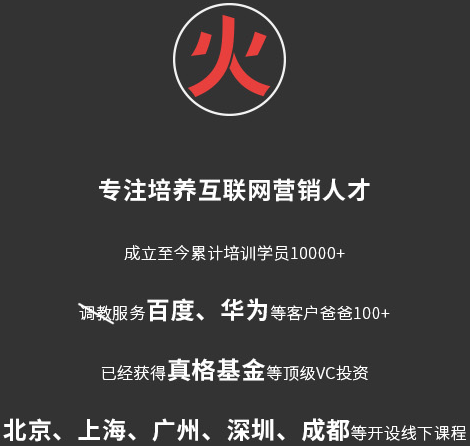
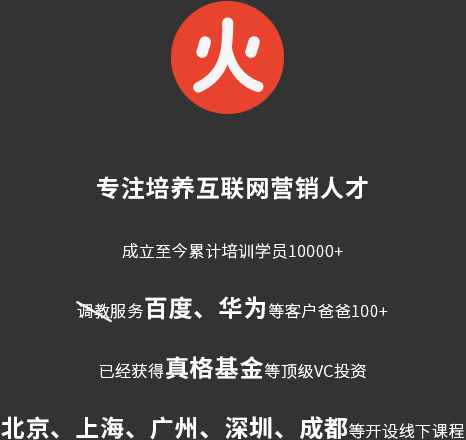
1

diff --git a/frontendIII/public/course-4.html b/frontendIII/public/course-4.html
@@ -14,7 +14,7 @@
     <div class="header">
         <div class="header-main">
             <div class="slogan">
-                <img src="./svg/logo-2.svg" alt="感觉要火" class="logo">
+                <img src="./svg/logo-5.svg" alt="感觉要火" class="logo">
             </div>
             <a href="javascript:void(0);" class="btn btn-show-navs">点我</a>
         </div>
@@ -234,23 +234,23 @@
         <div class="module-wrapper">
             <div class="title">友情链接</div>
             <p>
-                <a href="#">好色派沙拉</a>
-                <a href="#">heyjuice</a>
-                <a href="#">掌生鼓粒</a>
-                <a href="#">roseonly</a>
-                <a href="#">一朵棉花</a>
-                <a href="#">安德玛</a>
-                <a href="#">YSL</a>
-                <a href="#">三个爸爸</a>
-                <a href="#">Karma</a>
-                <a href="#">Blue</a>
-                <a href="#">Bottle</a>
-                <a href="#">三只松鼠</a>
+                <a target="_blank" href="http://www.haosesalad.com/">好色派沙拉</a>
+                <a target="_blank" href="http://www.heyjuice.cn/Index">heyjuice</a>
+                <a target="_blank" href="http://www.greeninhand.com/">掌生鼓粒</a>
+                <a target="_blank" href="http://www.roseonly.com.cn/">roseonly</a>
+                <a target="_blank" href="#">一朵棉花</a>
+                <a target="_blank" href="https://www.underarmour.cn/">安德玛</a>
+                <a target="_blank" href="http://www.yslbeautycn.com">YSL</a>
+                <a target="_blank" href="http://www.sangebaba.com/">三个爸爸</a>
+                <a target="_blank" href="http://www.karmais.me/index.html">Karma</a>
+                <a target="_blank" href="https://bluebottlecoffee.com/">Blue Bottle</a>
+                <a target="_blank" href="http://www.3songshu.com/">三只松鼠</a>
+                <a target="_blank" href="http://www.zcmind.com/">招财猫</a>
             </p>
             <p>
                 <a href="#">你说的都对</a>
-                <a href="#">顶尖文案</a>
-                <a href="#">数英网</a>
+                <a href="http://www.topys.cn/">顶尖文案</a>
+                <a href="http://www.digitaling.com/">数英网</a>
             </p>
             <div class="copyright">
                 <a href="http://www.miibeian.gov.cn" target="_blank">
@@ -260,6 +260,11 @@
         </div>
     </div>
     <script src="./js/lib/zepto/zepto.min.js"></script>
+    <script src="./js/lib/underscore/underscore-min.js"></script>
     <script src="./js/header.js"></script>
+    <script>
+        var courseId = 1;
+    </script>
+    <script src="./js/course.js"></script>
 </body>
 </html>

diff --git a/frontendIII/public/home.html b/frontendIII/public/home.html
@@ -15,7 +15,7 @@
     <div class="header">
         <div class="header-main">
             <div class="slogan">
-                <img src="./svg/logo-2.svg" alt="感觉要火" class="logo">
+                <img src="./svg/logo-5.svg" alt="感觉要火" class="logo">
             </div>
             <a href="javascript:void(0);" class="btn btn-show-navs">点我</a>
         </div>
@@ -31,8 +31,8 @@
     </div>
     <div class="module-video">
         <div class="video-container">
-            <video src="./img/home/video.mp4" autoplay="true" loop="true"></video>
-            <img class="video-preview" src="./img/home/top.jpg" alt="">
+            <img class="cover" src="./img/home/cover.jpg" alt="">
+            <img class="video-preview" src="./img/home/cover-mobile.jpg" alt="">
             <div class="wrap-register">
                 虽然<br>
                 你立即报名会让我很开心<br>
@@ -44,7 +44,6 @@
         </div>
     </div>
     <div class="module-declaration img-center-container">
-        <img src="./img/home/slogan-304-60.png" alt="这一刻，感觉要火。">
     </div>
     <div class="module-courses">
         <div class="module-wrapper">
@@ -94,6 +93,20 @@
                         </div>
                     </div>
                     <a href="/course-3.html" class="course-entrance">查看详情</a>
+                </div>
+                <div class="course even">
+                    <img src="./img/home/course-cover-4.jpg" alt="" class="course-cover">
+                    <div class="course-info">
+                        <div class="course-title">
+                            <img src="./img/home/course-name-4.png" alt="">
+                        </div>
+                        <div class="course-detail">
+                            【感觉要火】品牌营销大课<br>
+                            小马宋X李倩两位大咖，以两整天系统大课方式<br>
+                            全面升级你的营销思维
+                        </div>
+                    </div>
+                    <a href="/course-4.html" class="course-entrance">查看详情</a>
                 </div>
             </div>
         </div>
@@ -154,6 +167,7 @@
                 <a target="_blank" href="http://www.karmais.me/index.html">Karma</a>
                 <a target="_blank" href="https://bluebottlecoffee.com/">Blue Bottle</a>
                 <a target="_blank" href="http://www.3songshu.com/">三只松鼠</a>
+                <a target="_blank" href="http://www.zcmind.com/">招财猫</a>
             </p>
             <p>
                 <a href="#">你说的都对</a>

diff --git a/frontendIII/public/marry.html b/frontendIII/public/marry.html
@@ -15,7 +15,7 @@
     <div class="header">
         <div class="header-main">
             <div class="slogan">
-                <img src="./svg/logo-2.svg" alt="感觉要火" class="logo">
+                <img src="./svg/logo-5.svg" alt="感觉要火" class="logo">
             </div>
             <a href="javascript:void(0);" class="btn btn-show-navs">点我</a>
         </div>
@@ -150,23 +150,23 @@
         <div class="module-wrapper">
             <div class="title">友情链接</div>
             <p>
-                <a href="#">好色派沙拉</a>
-                <a href="#">heyjuice</a>
-                <a href="#">掌生鼓粒</a>
-                <a href="#">roseonly</a>
-                <a href="#">一朵棉花</a>
-                <a href="#">安德玛</a>
-                <a href="#">YSL</a>
-                <a href="#">三个爸爸</a>
-                <a href="#">Karma</a>
-                <a href="#">Blue</a>
-                <a href="#">Bottle</a>
-                <a href="#">三只松鼠</a>
+                <a target="_blank" href="http://www.haosesalad.com/">好色派沙拉</a>
+                <a target="_blank" href="http://www.heyjuice.cn/Index">heyjuice</a>
+                <a target="_blank" href="http://www.greeninhand.com/">掌生鼓粒</a>
+                <a target="_blank" href="http://www.roseonly.com.cn/">roseonly</a>
+                <a target="_blank" href="#">一朵棉花</a>
+                <a target="_blank" href="https://www.underarmour.cn/">安德玛</a>
+                <a target="_blank" href="http://www.yslbeautycn.com">YSL</a>
+                <a target="_blank" href="http://www.sangebaba.com/">三个爸爸</a>
+                <a target="_blank" href="http://www.karmais.me/index.html">Karma</a>
+                <a target="_blank" href="https://bluebottlecoffee.com/">Blue Bottle</a>
+                <a target="_blank" href="http://www.3songshu.com/">三只松鼠</a>
+                <a target="_blank" href="http://www.zcmind.com/">招财猫</a>
             </p>
             <p>
                 <a href="#">你说的都对</a>
-                <a href="#">顶尖文案</a>
-                <a href="#">数英网</a>
+                <a href="http://www.topys.cn/">顶尖文案</a>
+                <a href="http://www.digitaling.com/">数英网</a>
             </p>
             <div class="copyright">
                 <a href="http://www.miibeian.gov.cn" target="_blank">

diff --git a/frontendIII/public/css/home.css b/frontendIII/public/css/home.css
@@ -3,10 +3,12 @@
     height: 9rem;
 }
 
-.module-video video {
+.module-video video,
+.module-video .cover {
     width: 100%;
     height: 100%;
-    object-fit: fill;
+    /*object-fit: fill;*/
+    object-fit: cover;
 }
 
 .module-video .video-preview {
@@ -39,10 +41,11 @@
 }
 
 .module-declaration {
-    height: 1.84rem;
+    height: 4rem;
     line-height: 1.84rem;
     background-color: #fff;
     text-align: center;
+    background: url(../img/home/slogan-430-212.png) no-repeat center center #fff;
 }
 
 .module-declaration img {
@@ -111,7 +114,7 @@
     width: 2.12rem;
     height: 0.62rem;
     line-height: 0.62rem;
-    background-color: #36a59c;
+    background-color: #dc432f;
     color: #fff;
     font-size: 0.24rem;
     text-align: center;
@@ -120,7 +123,7 @@
 }
 
 .module-courses .course:nth-child(3) .course-entrance {
-    background-color: #d34458;
+    background-color: #dc432f;
 }
 
 .module-courses .course.even .course-cover {
@@ -162,7 +165,7 @@
 .module-clients {
     height: 7.3rem;
     background-color: #ffffff;
-    border-bottom: 0.65rem solid #36a59c;
+    border-bottom: 0.65rem solid  #dc432f;
 }
 
 .module-clients img {
@@ -181,7 +184,8 @@
         width: 100%;
     }
 
-    .module-video video {
+    .module-video video,
+    .module-video .cover {
         display: none;
     }
 
@@ -203,8 +207,10 @@
     }
 
     .module-declaration {
-        height: 2.35rem;
+        height: 1.9rem;
         line-height: 2.35rem;
+        background-image: url(../img/home/slogan-389-64.png);
+        background-size: 3.89rem 0.64rem;
     }
 
     .module-declaration img {

diff --git a/frontendIII/public/course-3.html b/frontendIII/public/course-3.html
@@ -95,7 +95,7 @@
     <div class="header">
         <div class="header-main">
             <div class="slogan">
-                <img src="./svg/logo-2.svg" alt="感觉要火" class="logo">
+                <img src="./svg/logo-5.svg" alt="感觉要火" class="logo">
             </div>
             <a href="javascript:void(0);" class="btn btn-show-navs">点我</a>
         </div>
@@ -192,7 +192,7 @@
                             电话：17097214991<br>
                         </div>
                         <div class="QR-code">
-                            <img src="./img/QR-code.jpg" alt="二维码">
+                            <img src="./img/QR-code.png" alt="二维码">
                         </div>
                     </div>
                 </div>
@@ -323,6 +323,7 @@
                 <a target="_blank" href="http://www.karmais.me/index.html">Karma</a>
                 <a target="_blank" href="https://bluebottlecoffee.com/">Blue Bottle</a>
                 <a target="_blank" href="http://www.3songshu.com/">三只松鼠</a>
+                <a target="_blank" href="http://www.zcmind.com/">招财猫</a>
             </p>
             <p>
                 <a href="#">你说的都对</a>
@@ -339,6 +340,9 @@
     <script src="./js/lib/zepto/zepto.min.js"></script>
     <script src="./js/lib/underscore/underscore-min.js"></script>
     <script src="./js/header.js"></script>
+    <script>
+        var courseId = 3;
+    </script>
     <script src="./js/course.js"></script>
 </body>
 </html>

diff --git a/frontendIII/public/course-2.html b/frontendIII/public/course-2.html
@@ -57,7 +57,7 @@
     <div class="header">
         <div class="header-main">
             <div class="slogan">
-                <img src="./svg/logo-2.svg" alt="感觉要火" class="logo">
+                <img src="./svg/logo-5.svg" alt="感觉要火" class="logo">
             </div>
             <a href="javascript:void(0);" class="btn btn-show-navs">点我</a>
         </div>
@@ -153,7 +153,7 @@
                             电话：17097214991<br>
                         </div>
                         <div class="QR-code">
-                            <img src="./img/course-2/QR-code.jpg" alt="二维码">
+                            <img src="./img/course-2/QR-code.png" alt="二维码">
                         </div>
                     </div>
                 </div>
@@ -284,6 +284,7 @@
                 <a target="_blank" href="http://www.karmais.me/index.html">Karma</a>
                 <a target="_blank" href="https://bluebottlecoffee.com/">Blue Bottle</a>
                 <a target="_blank" href="http://www.3songshu.com/">三只松鼠</a>
+                <a target="_blank" href="http://www.zcmind.com/">招财猫</a>
             </p>
             <p>
                 <a href="#">你说的都对</a>

diff --git a/frontendIII/public/course-1.html b/frontendIII/public/course-1.html
@@ -14,7 +14,7 @@
     <div class="header">
         <div class="header-main">
             <div class="slogan">
-                <img src="./svg/logo-2.svg" alt="感觉要火" class="logo">
+                <img src="./svg/logo-5.svg" alt="感觉要火" class="logo">
             </div>
             <a href="javascript:void(0);" class="btn btn-show-navs">点我</a>
         </div>
@@ -110,7 +110,7 @@
                             电话：17097214991<br>
                         </div>
                         <div class="QR-code">
-                            <img src="./img/QR-code.jpg" alt="二维码">
+                            <img src="./img/QR-code.png" alt="二维码">
                         </div>
                     </div>
                 </div>
@@ -241,6 +241,7 @@
                 <a target="_blank" href="http://www.karmais.me/index.html">Karma</a>
                 <a target="_blank" href="https://bluebottlecoffee.com/">Blue Bottle</a>
                 <a target="_blank" href="http://www.3songshu.com/">三只松鼠</a>
+                <a target="_blank" href="http://www.zcmind.com/">招财猫</a>
             </p>
             <p>
                 <a href="#">你说的都对</a>

diff --git a/frontendIII/public/pay.html b/frontendIII/public/pay.html
@@ -15,7 +15,7 @@
     <div class="header">
         <div class="header-main">
             <div class="slogan">
-                <img src="./svg/logo-2.svg" alt="感觉要火" class="logo">
+                <img src="./svg/logo-5.svg" alt="感觉要火" class="logo">
             </div>
             <a href="javascript:void(0);" class="btn btn-show-navs">点我</a>
         </div>
@@ -275,6 +275,7 @@
                 <a target="_blank" href="http://www.karmais.me/index.html">Karma</a>
                 <a target="_blank" href="https://bluebottlecoffee.com/">Blue Bottle</a>
                 <a target="_blank" href="http://www.3songshu.com/">三只松鼠</a>
+                <a target="_blank" href="http://www.zcmind.com/">招财猫</a>
             </p>
             <p>
                 <a href="#">你说的都对</a>

diff --git a/frontendIII/public/pay-success.html b/frontendIII/public/pay-success.html
@@ -71,7 +71,7 @@
     <div class="header">
         <div class="header-main">
             <div class="slogan">
-                <img src="./svg/logo-2.svg" alt="感觉要火" class="logo">
+                <img src="./svg/logo-5.svg" alt="感觉要火" class="logo">
             </div>
             <a href="javascript:void(0);" class="btn btn-show-navs">点我</a>
         </div>

diff --git a/frontendIII/public/train.html b/frontendIII/public/train.html
@@ -58,7 +58,7 @@
     <div class="header">
         <div class="header-main">
             <div class="slogan">
-                <img src="./svg/logo-2.svg" alt="感觉要火" class="logo">
+                <img src="./svg/logo-5.svg" alt="感觉要火" class="logo">
             </div>
             <a href="javascript:void(0);" class="btn btn-show-navs">点我</a>
         </div>

diff --git a/frontendIII/public/css/course.css b/frontendIII/public/css/course.css
@@ -183,7 +183,7 @@
     font-size: 0.24rem;
     color: #fff;
     text-align: center;
-    background-color: #d34458;
+    background-color: #dc432f;
 }
 
 .module-plan {
